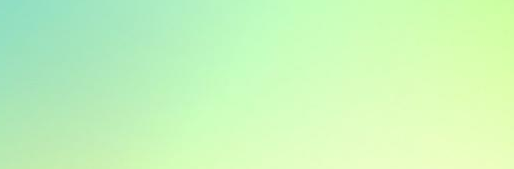
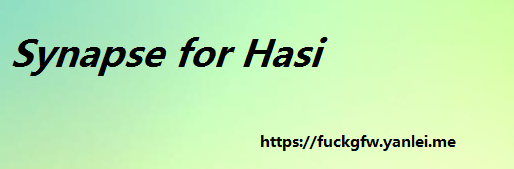
添加登录页（未完成）

Changed region(s): [[0.0, 0.2071, 0.6537, 0.4438], [0.4981, 0.7988, 0.9027, 0.8876]]

diff --git a/shadowsocks-csharp/View/FormLogin.Designer.cs b/shadowsocks-csharp/View/FormLogin.Designer.cs
@@ -1,0 +1,138 @@
+namespace Shadowsocks.View
+{
+    partial class FormLogin
+    {
+        /// <summary>
+        /// Required designer variable.
+        /// </summary>
+        private System.ComponentModel.IContainer components = null;
+
+        /// <summary>
+        /// Clean up any resources being used.
+        /// </summary>
+        /// <param name="disposing">true if managed resources should be disposed; otherwise, false.</param>
+        protected override void Dispose(bool disposing)
+        {
+            if (disposing && (components != null))
+            {
+                components.Dispose();
+            }
+            base.Dispose(disposing);
+        }
+
+        #region Windows Form Designer generated code
+
+        /// <summary>
+        /// Required method for Designer support - do not modify
+        /// the contents of this method with the code editor.
+        /// </summary>
+        private void InitializeComponent()
+        {
+            this.pictureBox1 = new System.Windows.Forms.PictureBox();
+            this.label1 = new System.Windows.Forms.Label();
+            this.label2 = new System.Windows.Forms.Label();
+            this.textBox1 = new System.Windows.Forms.TextBox();
+            this.textBox2 = new System.Windows.Forms.TextBox();
+            this.button1 = new System.Windows.Forms.Button();
+            this.button2 = new System.Windows.Forms.Button();
+            ((System.ComponentModel.ISupportInitialize)(this.pictureBox1)).BeginInit();
+            this.SuspendLayout();
+            // 
+            // pictureBox1
+            // 
+            this.pictureBox1.Image = global::Shadowsocks.Properties.Resources.background;
+            this.pictureBox1.Location = new System.Drawing.Point(-24, -4);
+            this.pictureBox1.Name = "pictureBox1";
+            this.pictureBox1.Size = new System.Drawing.Size(370, 106);
+            this.pictureBox1.TabIndex = 0;
+            this.pictureBox1.TabStop = false;
+            // 
+            // label1
+            // 
+            this.label1.AutoSize = true;
+            this.label1.Location = new System.Drawing.Point(23, 117);
+            this.label1.Name = "label1";
+            this.label1.Size = new System.Drawing.Size(29, 12);
+            this.label1.TabIndex = 1;
+            this.label1.Text = "账号";
+            // 
+            // label2
+            // 
+            this.label2.AutoSize = true;
+            this.label2.Location = new System.Drawing.Point(24, 144);
+            this.label2.Name = "label2";
+            this.label2.Size = new System.Drawing.Size(29, 12);
+            this.label2.TabIndex = 2;
+            this.label2.Text = "密码";
+            // 
+            // textBox1
+            // 
+            this.textBox1.Location = new System.Drawing.Point(68, 114);
+            this.textBox1.Name = "textBox1";
+            this.textBox1.Size = new System.Drawing.Size(182, 21);
+            this.textBox1.TabIndex = 3;
+            // 
+            // textBox2
+            // 
+            this.textBox2.Location = new System.Drawing.Point(68, 141);
+            this.textBox2.Name = "textBox2";
+            this.textBox2.Size = new System.Drawing.Size(182, 21);
+            this.textBox2.TabIndex = 4;
+            // 
+            // button1
+            // 
+            this.button1.Location = new System.Drawing.Point(151, 177);
+            this.button1.Name = "button1";
+            this.button1.Size = new System.Drawing.Size(90, 29);
+            this.button1.TabIndex = 5;
+            this.button1.Text = "登录";
+            this.button1.UseVisualStyleBackColor = true;
+            this.button1.Click += new System.EventHandler(this.button1_Click);
+            // 
+            // button2
+            // 
+            this.button2.Location = new System.Drawing.Point(32, 177);
+            this.button2.Name = "button2";
+            this.button2.Size = new System.Drawing.Size(90, 29);
+            this.button2.TabIndex = 6;
+            this.button2.Text = "注册";
+            this.button2.UseVisualStyleBackColor = true;
+            this.button2.Click += new System.EventHandler(this.button2_Click);
+            // 
+            // FormLogin
+            // 
+            this.AutoScaleDimensions = new System.Drawing.SizeF(6F, 12F);
+            this.AutoScaleMode = System.Windows.Forms.AutoScaleMode.Font;
+            this.ClientSize = new System.Drawing.Size(275, 214);
+            this.Controls.Add(this.button2);
+            this.Controls.Add(this.button1);
+            this.Controls.Add(this.textBox2);
+            this.Controls.Add(this.textBox1);
+            this.Controls.Add(this.label2);
+            this.Controls.Add(this.label1);
+            this.Controls.Add(this.pictureBox1);
+            this.MaximizeBox = false;
+            this.Name = "FormLogin";
+            this.ShowIcon = false;
+            this.ShowInTaskbar = false;
+            this.StartPosition = System.Windows.Forms.FormStartPosition.CenterScreen;
+            this.Text = "登录 - Synapse for Hasi";
+            this.TopMost = true;
+            this.Load += new System.EventHandler(this.FormLogin_Load);
+            ((System.ComponentModel.ISupportInitialize)(this.pictureBox1)).EndInit();
+            this.ResumeLayout(false);
+            this.PerformLayout();
+
+        }
+
+        #endregion
+
+        private System.Windows.Forms.PictureBox pictureBox1;
+        private System.Windows.Forms.Label label1;
+        private System.Windows.Forms.Label label2;
+        private System.Windows.Forms.TextBox textBox1;
+        private System.Windows.Forms.TextBox textBox2;
+        private System.Windows.Forms.Button button1;
+        private System.Windows.Forms.Button button2;
+    }
+}

diff --git a/shadowsocks-csharp/Properties/Resources.Designer.cs b/shadowsocks-csharp/Properties/Resources.Designer.cs
@@ -1,7 +1,7 @@
 //------------------------------------------------------------------------------
 // <auto-generated>
 //     此代码由工具生成。
-//     运行时版本:4.0.30319.18408
+//     运行时版本:4.0.30319.18444
 //
 //     对此文件的更改可能会导致不正确的行为，并且如果
 //     重新生成代码，这些更改将会丢失。
@@ -71,6 +71,16 @@ namespace Shadowsocks.Properties {
         }
         
         /// <summary>
+        ///   查找 System.Drawing.Bitmap 类型的本地化资源。
+        /// </summary>
+        internal static System.Drawing.Bitmap background {
+            get {
+                object obj = ResourceManager.GetObject("background", resourceCulture);
+                return ((System.Drawing.Bitmap)(obj));
+            }
+        }
+        
+        /// <summary>
         ///   查找类似 Shadowsocks=Shadowsocks
         ///Enable System Proxy=启用系统代理
         ///Mode=系统代理模式
@@ -84,7 +94,8 @@ namespace Shadowsocks.Properties {
         ///Show QRCode...=显示二维码...
         ///Scan QRCode from Screen...=扫描屏幕上的二维码...
         ///Show Logs...=显示日志...
-        ///About...=关于...
+        ///About...=关于Shadowsocks
+        ///About Synapse=关于Synapse for Hasi
         ///Quit=退出
         ///Edit Servers=Synapse for Hasi - Based on Shadowsocks
         ///&amp;Add=添加(&amp;A)
@@ -94,11 +105,7 @@ namespace Shadowsocks.Properties {
         ///Server Port=服务器端口
         ///Password=密码
         ///Encryption=加密
-        ///Proxy Port=代理端口
-        ///Remarks=备注
-        ///OK=确定
-        ///Cancel=取消
-        ///New [字符串的其余部分被截断]&quot;; 的本地化字符串。
+        ///Proxy [字符串的其余部分被截断]&quot;; 的本地化字符串。
         /// </summary>
         internal static string cn {
             get {

diff --git a/shadowsocks-csharp/Program.cs b/shadowsocks-csharp/Program.cs
@@ -12,7 +12,8 @@ using System.Text;
 using System.Diagnostics;
 using System.Net.NetworkInformation;
 using System.Security.Cryptography;
-using System.Globalization;  
+using System.Globalization;
+using System.Runtime.InteropServices;
 
 
 
@@ -23,7 +24,6 @@ using System.Globalization;
 namespace Shadowsocks
 {
     
-
     
 
 
@@ -33,6 +33,11 @@ namespace Shadowsocks
         /// 应用程序的主入口点。
         /// </summary>
         //[STAThread]
+        [DllImport("user32.dll", CharSet = CharSet.Auto)]
+        private static extern int SetWindowPos(IntPtr hWnd, int hWndInsertAfter, int x, int y, int Width, int Height, int flags);
+        [DllImport("user32.dll", CharSet = CharSet.Auto)]
+        private static extern System.IntPtr GetForegroundWindow();
+       
 
         public static string ServerIP = "0.0.0.0";
         public static int Port = 0000;
@@ -221,7 +226,9 @@ namespace Shadowsocks
                     System.Environment.Exit(0);
                     //Application.ApplicationExit();
                 }
-
+                FormLogin login = new FormLogin();
+                login.Show();
+                SetWindowPos(GetForegroundWindow(), -1, 0, 0, 0, 0, 1 | 2);
                 
 
 

diff --git a/shadowsocks-csharp/View/FormLogin.cs b/shadowsocks-csharp/View/FormLogin.cs
@@ -1,0 +1,40 @@
+using System;
+using System.Collections.Generic;
+using System.ComponentModel;
+using System.Data;
+using System.Drawing;
+using System.Linq;
+using System.Text;
+using System.Windows.Forms;
+
+namespace Shadowsocks.View
+{
+    
+
+    public partial class FormLogin : Form
+    {
+        
+        
+
+        public FormLogin()
+        {
+            InitializeComponent();
+        }
+
+        private void FormLogin_Load(object sender, EventArgs e)
+        {
+            
+            pictureBox1.SizeMode = PictureBoxSizeMode.Zoom;
+        }
+
+        private void button2_Click(object sender, EventArgs e)
+        {
+
+        }
+
+        private void button1_Click(object sender, EventArgs e)
+        {
+
+        }
+    }
+}
